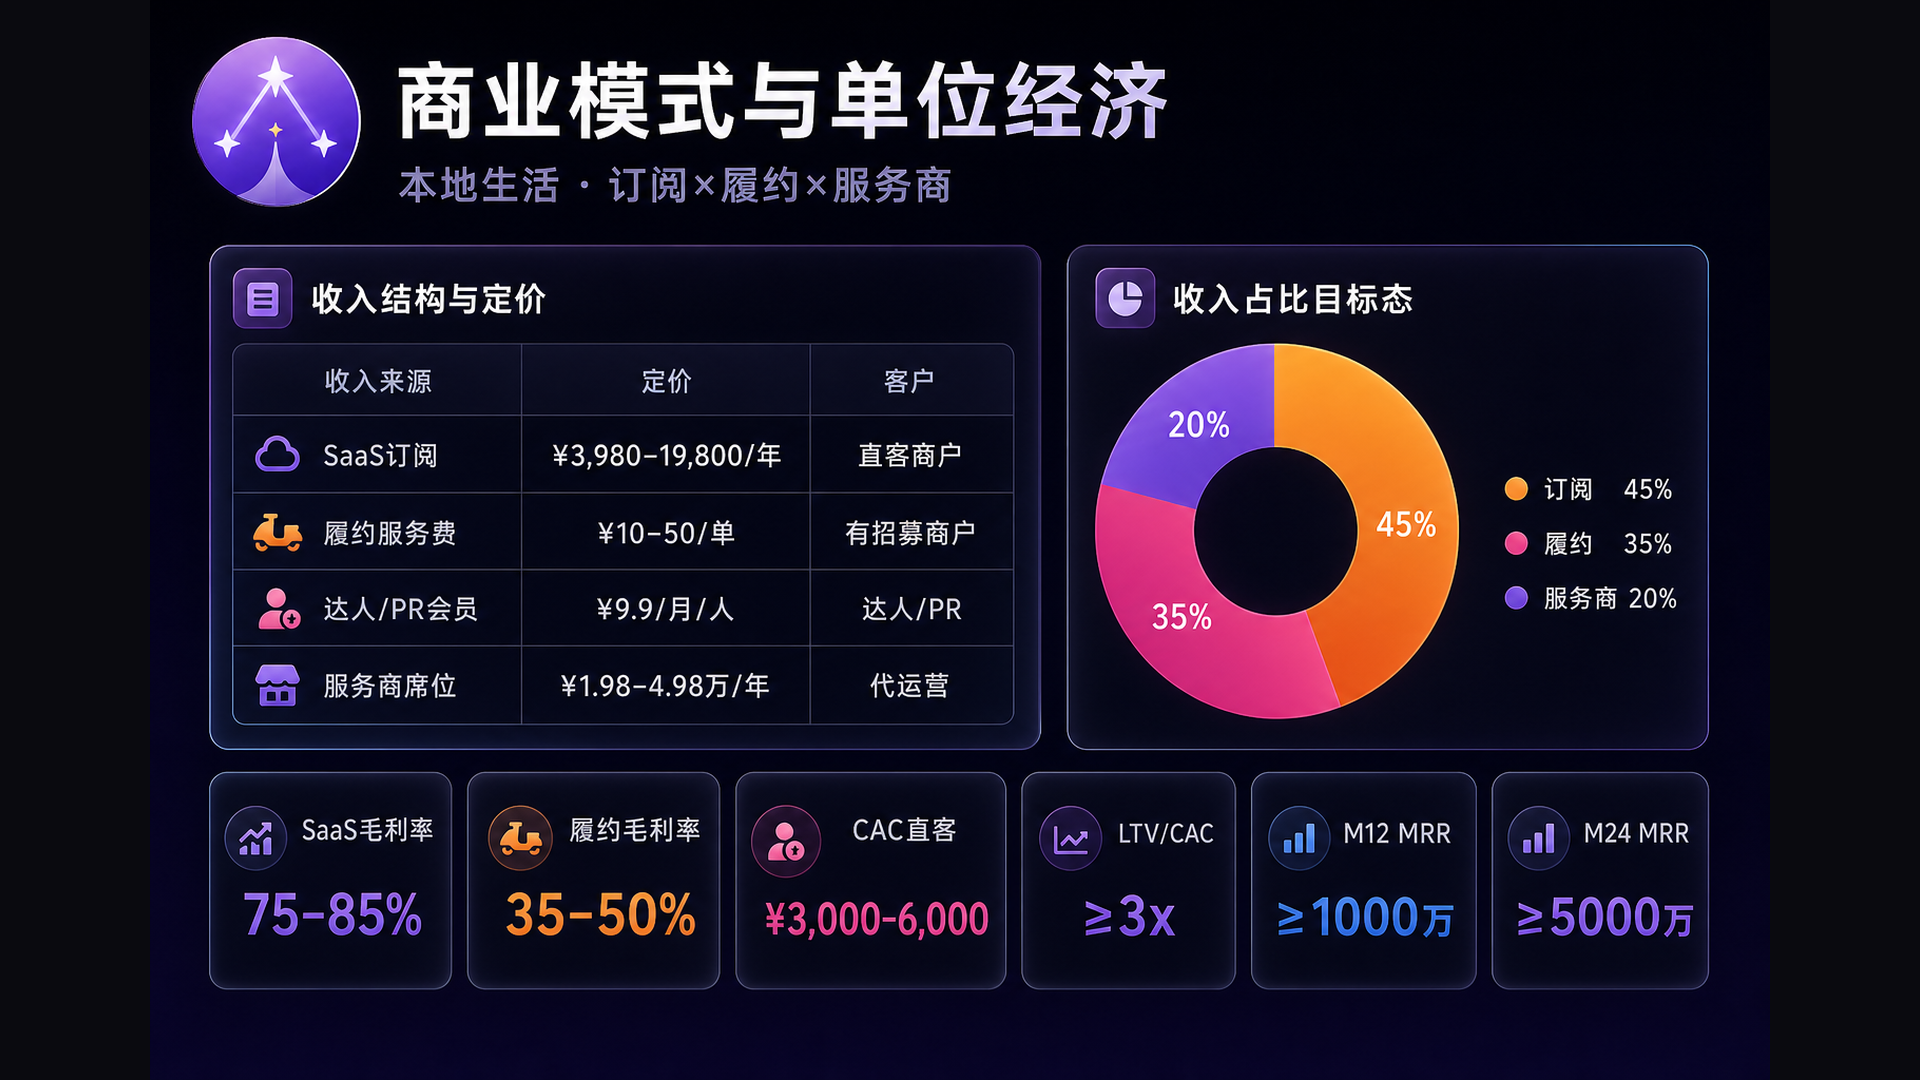
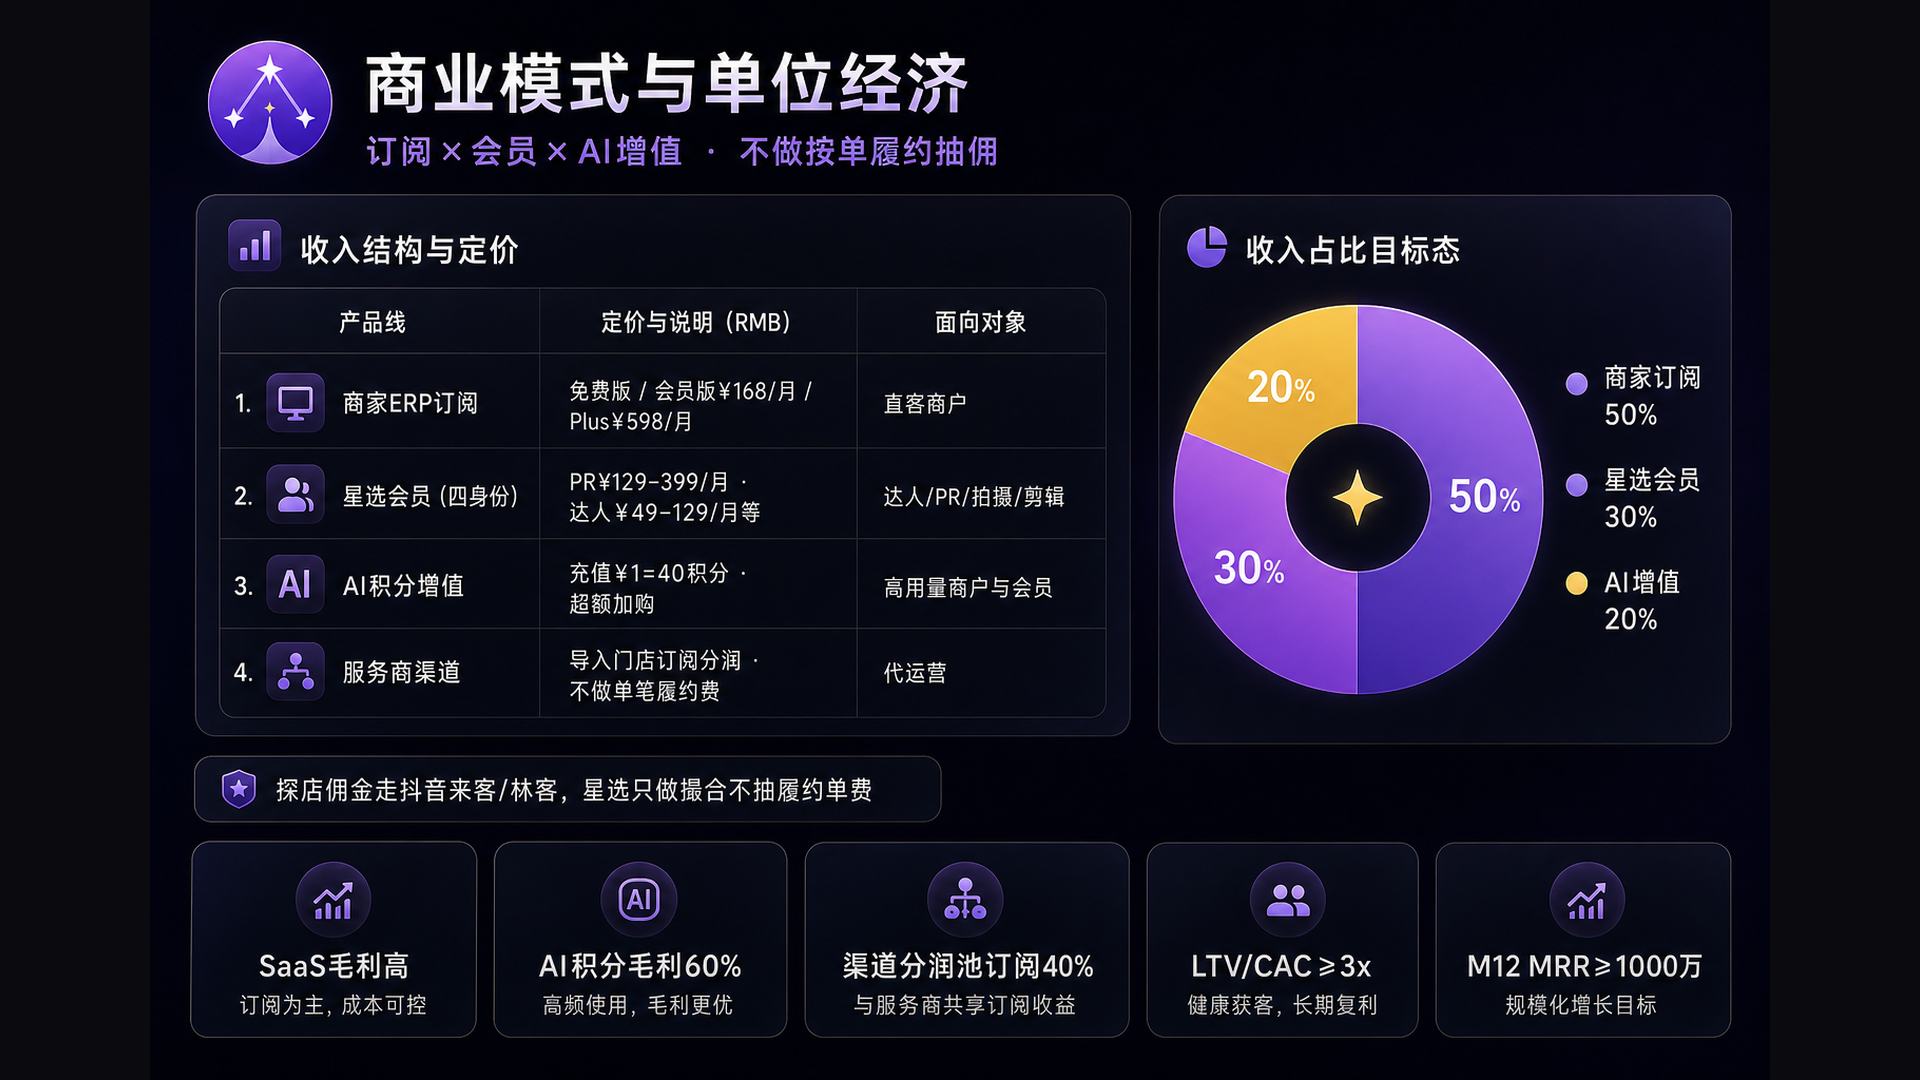
docs(bp-ppt): 商业模式页去掉履约服务费并对齐产品定价
按商家ERP订阅、星选四身份会员、AI积分60%毛利重做；注明不做按单履约抽佣。

Changed region(s): [[0.0625, 0.0306, 0.9375, 1.0], [0.8125, 0.1528, 0.9062, 0.275]]

diff --git a/docs/bp-ppt/PPT规划.md b/docs/bp-ppt/PPT规划.md
@@ -128,17 +128,17 @@
 
 ### P07 · 商业模式与单位经济
 
-**版式：** 左收入表；右三块占比环/条（订阅45 / 履约35 / 服务商20）；底栏 KPI。
+**版式：** 左收入表；右占比环（商家订阅50 / 星选会员30 / AI增值20）；底栏 KPI。  
+**口径（对齐产品，禁止写履约服务费）：** 探店佣金走来客/林客；星选只做撮合，不按单抽履约费。
 
 | 收入 | 定价 | 客户 |
 |------|------|------|
-| SaaS 订阅 | ¥3,980–19,800/年 | 直客 |
-| 履约服务费 | ¥10–50/单 | 有招募商户 |
-| 达人/PR 会员 | ¥9.9/月 | 达人/PR |
-| 服务商席位 | ¥1.98–4.98万/年 | 代运营 |
-| AI 增值包 | +15–30% | 高用量 |
+| 商家 ERP 订阅 | 免费版；会员版 ¥168/月；Plus ¥598/月（季付可选） | 直客商户 |
+| 星选会员（四身份） | PR ¥129–399/月；达人 ¥49–129/月 等 | 达人/PR/拍摄/剪辑 |
+| AI 积分增值 | ¥1=40 积分；超额加购 | 高用量 |
+| 服务商渠道 | 导入门店订阅分润（池约 40%） | 代运营 |
 
-**KPI：** M12 MRR≥1000万 · M24 MRR≥5000万 · SaaS 毛利75–85% · LTV/CAC≥3x
+**KPI：** AI 积分毛利 60% · LTV/CAC≥3x · M12 MRR≥1000万 · M24 MRR≥5000万
 
 **配图：** `07-business-model.png`
 
